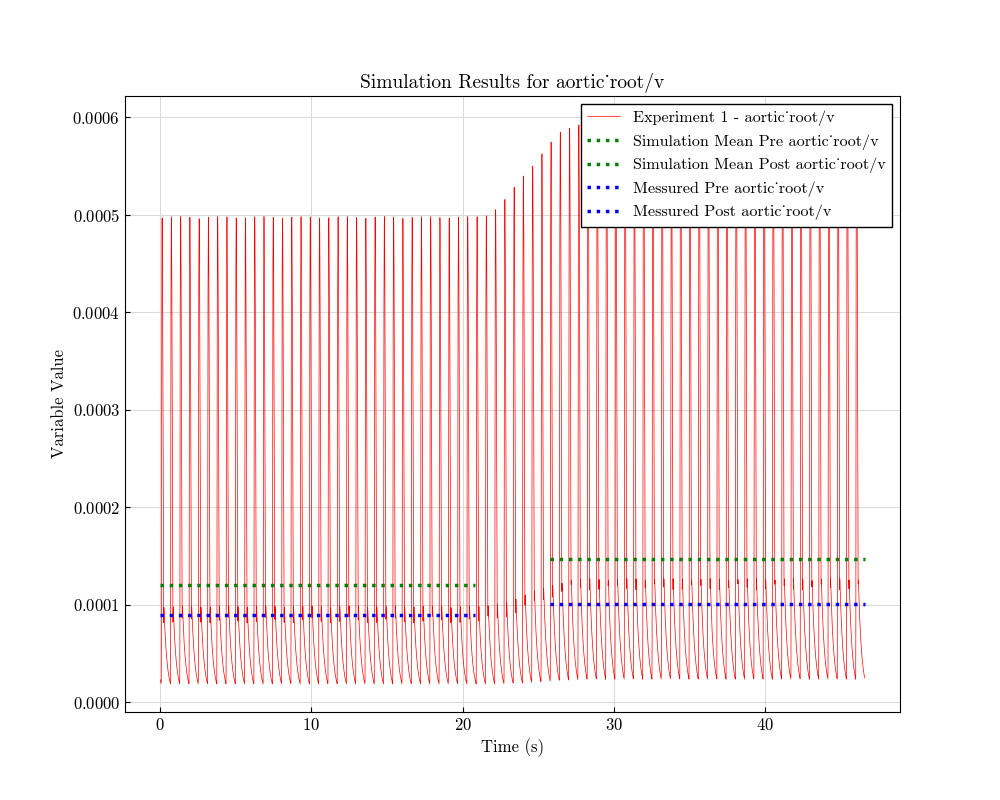
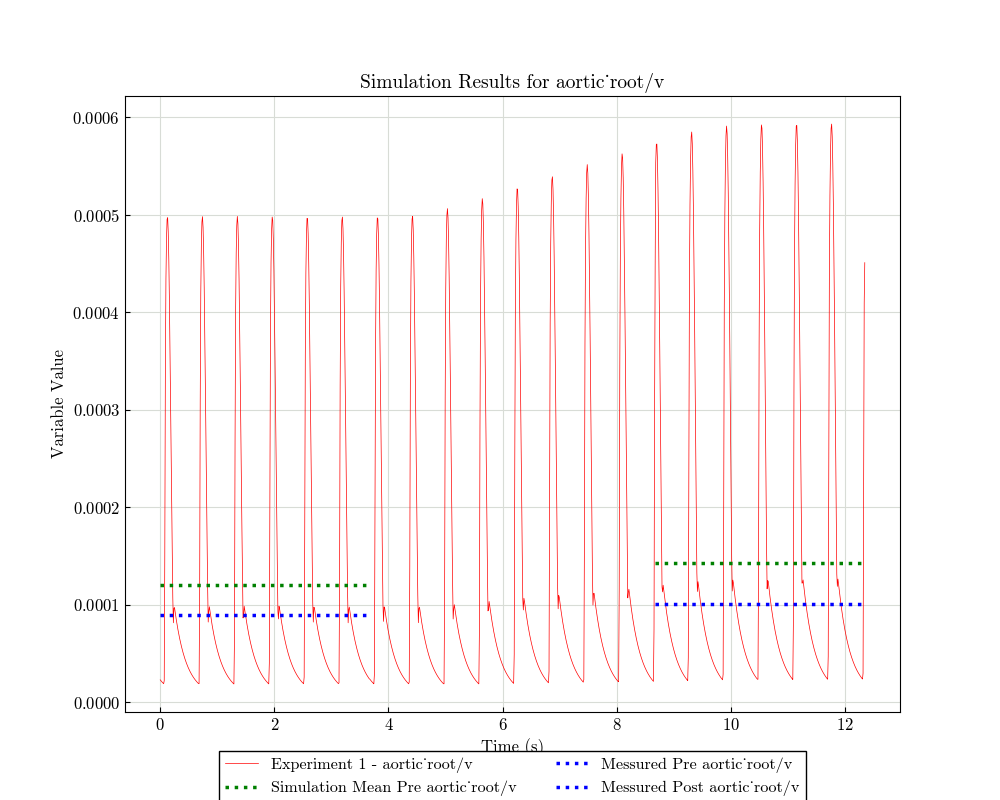
Prediction function updated, should now recalibrate model to pre second infusion

Changed region(s): [[0.155, 0.125, 0.899, 0.875], [0.217, 0.9375, 0.806, 1.0]]

diff --git a/gitdir/src/utilities/prediction.py b/gitdir/src/utilities/prediction.py
@@ -7,18 +7,27 @@ import ast
 import os 
 import sys
 import yaml
+import json
+from mpi4py import MPI
+import shutil
 
 # Define the root directory path
-root_dir_path = os.path.join(os.path.dirname(__file__), '../..', 'Examensprojekt_hpc')
+root_dir_path = '/hpc/vken399/Examensprojekt_hpc'
 
 # Append the necessary paths to the system path
 utilities_dir = os.path.join(root_dir_path, 'gitdir', 'src', 'utilities')
 scripts_dir = os.path.join(root_dir_path, 'gitdir', 'src', 'scripts')
+resources_dir = os.path.join(root_dir_path, 'CA_user', '3compartment', 'resources')
+resources_post_dir = os.path.join(root_dir_path, 'CA_user', '3compartment', 'resources_post')
+model_dir = os.path.join(root_dir_path, 'CA_user', '3compartment', 'generated_models', '3compartment_3compartment_obs_data')
 
 print("Scripts Directory:", scripts_dir)
 
 sys.path.append(utilities_dir)
 sys.path.append(scripts_dir)
+sys.path.append(resources_dir)
+sys.path.append(resources_post_dir)
+sys.path.append(model_dir)
 
 # Import the required function
 from param_id_run_script import run_param_id
@@ -31,27 +40,57 @@ with open(os.path.join(user_inputs_dir, '3compartment_user_inputs.yaml'), 'r') a
     inp_data_dict = yaml.load(file, Loader=yaml.FullLoader)
 
 # Run the parameter identification function
-run_param_id(inp_data_dict)
+print('Ran first param ID')
+
+comm = MPI.COMM_WORLD
+try:
+    run_param_id(inp_data_dict)
+except:
+    #print(traceback.format_exc())
+    comm.Abort()
 
 
 
+inp_data_dict['resources_dir'] = resources_post_dir
+inp_data_dict['param_id_obs_path'] = os.path.join(resources_post_dir,'3compartment_obs_data.json')
+inp_data_dict['params_for_id_path'] = os.path.join(resources_post_dir,'3compartment_params_for_id.csv')
+print('Changed paths')
 
-protocol_info = {
-    "protocol_info": {
-        "pre_times": [20.791666666],
-        "sim_times": [[20.791666666, 5, 20.791666666]],
-        "params_to_change": {
-            "venous_svc/v_inf": [[0, 0.0001, 0]]
-        },
-        "experiment_colors": ["r", "b"],
-        "experiment_labels": ["inf", "heart"]
-    }
-}
+# Define the source and destination file paths
+source_file = os.path.join(model_dir, '3compartment_parameters.csv')
+destination_file = resources_post_dir
 
-model_path = "/hpc/vken399/Examensprojekt_hpc/CA_user/3compartment/generated_models/3compartment_3compartment_obs_data/3compartment.cellml"
+# Check if the source file exists
+if os.path.exists(source_file):
+    # Copy the file from source to destination
+    shutil.copy(source_file, destination_file)
+    print(f"File copied from {source_file} to {destination_file}")
+else:
+    print(f"Source file not found: {source_file}")
+    
+print('Running post param id')
+try:
+    run_param_id(inp_data_dict)
+    MPI.Finalize()
+except:
+    #print(traceback.format_exc())
+    print('exception')
+    comm.Abort()
+
+print('Plotting')
+model_path = os.path.join(model_dir, '3compartment.cellml')
 parameters_to_plot = ["aortic_root/v", "heart/u_ra"]
 
-t_list, res_list = run_protocols(model_path, parameters_to_plot, protocol_info['protocol_info'])
+
+param_id_obs_path = inp_data_dict['param_id_obs_path']
+with open(param_id_obs_path, encoding='utf-8-sig') as rf:
+    json_obj = json.load(rf)
+
+protocol_info = json_obj
+print(protocol_info)
+#protocol_info = json_obj
+
+t_list, res_list = run_protocols(model_path, parameters_to_plot, protocol_info)
 
 # Load ground truth data
 ground_truth = pd.read_csv('ground_truth.csv')
@@ -75,7 +114,7 @@ for param in parameters_to_plot:
         mean_values_dict[param].append([mean_val_first, mean_val_last])
         
         # Plot the simulation data
-        plt.plot(t_vec, var_data, label=f"Experiment {exp_idx + 1} - {param}", color=protocol_info['protocol_info']['experiment_colors'][parameters_to_plot.index(param)])
+        plt.plot(t_vec, var_data, label=f"Experiment {exp_idx + 1} - {param}", color='red')
         
         # Plot the mean values for the first and last simulation times only for their respective portions
         plt.plot([0, sim_times[0]], [mean_val_first, mean_val_first], linestyle=':', color='green', linewidth=2.5, label=f"Simulation Mean Pre {param}")
@@ -94,7 +133,8 @@ for param in parameters_to_plot:
     plt.xlabel('Time (s)', fontsize=12)
     plt.ylabel('Variable Value', fontsize=12)
     plt.title(f'Simulation Results for {param}', fontsize=14)
-    plt.legend(loc='upper right', fontsize='small', frameon=True)
+    plt.legend(loc='upper center', bbox_to_anchor=(0.5, -0.05), ncol=2, fontsize='small', frameon=True)
+    #plt.legend(loc='upper right', fontsize='small', frameon=True)
     plt.grid(True)
     plt.savefig(f'simulation_results_{param.replace("/", "_")}.png')
 

diff --git a/gitdir/src/utilities/protocol_funcs.py b/gitdir/src/utilities/protocol_funcs.py
@@ -43,6 +43,8 @@ def run_protocols(model_path, variables_to_plot, protocol_info=None, inp_data_di
             json_obj = json.load(rf)
 
         protocol_info = json_obj['protocol_info']
+    else:
+        protocol_info = protocol_info['protocol_info']
 
     sim_times = protocol_info['sim_times']
     pre_times = protocol_info['pre_times']
